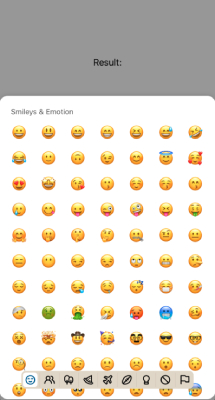
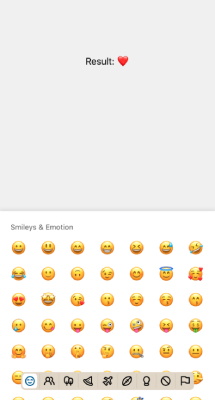
Feature/static keyboard (#2)
* fix: use container styles fix

* refactor: rename static modal

* refactor: let use EmojiStaticKeyboard outside modal

* chore: add static keyboard to readme

* fix: improve readme

* refactor: easier use of static keyboard and refactor contexts

* refactor: update readme example

diff --git a/src/EmojiKeyboard.tsx b/src/EmojiKeyboard.tsx
@@ -1,90 +1,19 @@
 import * as React from 'react';
+import { EmojiStaticKeyboard } from './components/EmojiStaticKeyboard';
+import { KeyboardProvider } from './contexts/KeyboardProvider';
+import type {
+  KeyboardProps,
+  OnEmojiSelected,
+} from './contexts/KeyboardContext';
 
-import {
-  StyleSheet,
-  View,
-  FlatList,
-  useWindowDimensions,
-  Animated,
-} from 'react-native';
-import type { CategoryTypes, EmojisByCategory } from './types';
-import { EmojiCategory } from './components/EmojiCategory';
-import { KeyboardContext } from './KeyboardContext';
-import { Categories } from './components/Categories';
-import emojisByGroup from './assets/emojis.json';
+type EmojiKeyboardProps = {
+  onEmojiSelected: OnEmojiSelected;
+} & Partial<KeyboardProps>;
 
-export const EmojiKeyboard = () => {
-  const { width } = useWindowDimensions();
-  const {
-    activeCategoryIndex,
-    containerStyles,
-    onCategoryChangeFailed,
-    disabledCategory,
-  } = React.useContext(KeyboardContext);
-
-  const flatListRef = React.useRef<FlatList>(null);
-
-  const scrollNav = React.useRef(new Animated.Value(0)).current;
-
-  const getItemLayout = (
-    _: CategoryTypes[] | null | undefined,
-    index: number
-  ) => ({
-    length: width,
-    offset: width * index,
-    index,
-  });
-
-  const renderItem = React.useCallback(
-    (props) => <EmojiCategory {...props} />,
-    []
-  );
-  React.useEffect(() => {
-    Animated.spring(scrollNav, {
-      toValue: activeCategoryIndex * (28 + 9),
-      useNativeDriver: true,
-    }).start();
-  }, [activeCategoryIndex, scrollNav]);
-
+export const EmojiKeyboard = (props: EmojiKeyboardProps) => {
   return (
-    <View style={[styles.container, styles.containerShadow, containerStyles]}>
-      <Animated.FlatList
-        data={emojisByGroup.filter((category) => {
-          const title = category.title as CategoryTypes;
-          return !disabledCategory.includes(title);
-        })}
-        keyExtractor={(item: EmojisByCategory) => item.title}
-        renderItem={renderItem}
-        removeClippedSubviews={true}
-        ref={flatListRef}
-        onScrollToIndexFailed={onCategoryChangeFailed}
-        horizontal
-        showsHorizontalScrollIndicator={false}
-        pagingEnabled
-        scrollEventThrottle={16}
-        getItemLayout={getItemLayout}
-        scrollEnabled={false}
-        initialNumToRender={1}
-        windowSize={2}
-        maxToRenderPerBatch={1}
-      />
-      <Categories flatListRef={flatListRef} scrollNav={scrollNav} />
-    </View>
+    <KeyboardProvider {...props}>
+      <EmojiStaticKeyboard />
+    </KeyboardProvider>
   );
 };
-
-const styles = StyleSheet.create({
-  container: {
-    flex: 1,
-    paddingTop: 16,
-    borderRadius: 16,
-    backgroundColor: '#fff',
-  },
-  containerShadow: {
-    shadowColor: 'black',
-    shadowOpacity: 0.15,
-    shadowOffset: { width: 0, height: 0 },
-    shadowRadius: 5,
-    elevation: 10,
-  },
-});

diff --git a/src/components/EmojiStaticKeyboard.tsx b/src/components/EmojiStaticKeyboard.tsx
@@ -1,0 +1,90 @@
+import * as React from 'react';
+
+import {
+  StyleSheet,
+  View,
+  FlatList,
+  useWindowDimensions,
+  Animated,
+} from 'react-native';
+import type { CategoryTypes, EmojisByCategory } from '../types';
+import { EmojiCategory } from './EmojiCategory';
+import { KeyboardContext } from '../contexts/KeyboardContext';
+import { Categories } from './Categories';
+import emojisByGroup from '../assets/emojis.json';
+
+export const EmojiStaticKeyboard = () => {
+  const { width } = useWindowDimensions();
+  const {
+    activeCategoryIndex,
+    containerStyles,
+    onCategoryChangeFailed,
+    disabledCategory,
+  } = React.useContext(KeyboardContext);
+
+  const flatListRef = React.useRef<FlatList>(null);
+
+  const scrollNav = React.useRef(new Animated.Value(0)).current;
+
+  const getItemLayout = (
+    _: CategoryTypes[] | null | undefined,
+    index: number
+  ) => ({
+    length: width,
+    offset: width * index,
+    index,
+  });
+
+  const renderItem = React.useCallback(
+    (props) => <EmojiCategory {...props} />,
+    []
+  );
+  React.useEffect(() => {
+    Animated.spring(scrollNav, {
+      toValue: activeCategoryIndex * (28 + 9),
+      useNativeDriver: true,
+    }).start();
+  }, [activeCategoryIndex, scrollNav]);
+
+  return (
+    <View style={[styles.container, styles.containerShadow, containerStyles]}>
+      <Animated.FlatList
+        data={emojisByGroup.filter((category) => {
+          const title = category.title as CategoryTypes;
+          return !disabledCategory.includes(title);
+        })}
+        keyExtractor={(item: EmojisByCategory) => item.title}
+        renderItem={renderItem}
+        removeClippedSubviews={true}
+        ref={flatListRef}
+        onScrollToIndexFailed={onCategoryChangeFailed}
+        horizontal
+        showsHorizontalScrollIndicator={false}
+        pagingEnabled
+        scrollEventThrottle={16}
+        getItemLayout={getItemLayout}
+        scrollEnabled={false}
+        initialNumToRender={1}
+        windowSize={2}
+        maxToRenderPerBatch={1}
+      />
+      <Categories flatListRef={flatListRef} scrollNav={scrollNav} />
+    </View>
+  );
+};
+
+const styles = StyleSheet.create({
+  container: {
+    flex: 1,
+    paddingTop: 16,
+    borderRadius: 16,
+    backgroundColor: '#fff',
+  },
+  containerShadow: {
+    shadowColor: 'black',
+    shadowOpacity: 0.15,
+    shadowOffset: { width: 0, height: 0 },
+    shadowRadius: 5,
+    elevation: 10,
+  },
+});

diff --git a/example/src/Static/Static.tsx b/example/src/Static/Static.tsx
@@ -1,32 +1,26 @@
 import * as React from 'react';
-import { StyleSheet, Text, TouchableOpacity } from 'react-native';
+import { StyleSheet, Text, View } from 'react-native';
 import { SafeAreaView } from 'react-native-safe-area-context';
-import EmojiPicker from 'rn-emoji-keyboard';
+import { EmojiKeyboard } from 'rn-emoji-keyboard';
 import type { EmojiType } from 'src/types';
 
 const Static = () => {
   const [result, setResult] = React.useState<string>();
-  const [isModalOpen, setIsModalOpen] = React.useState<boolean>(false);
 
   const handlePick = (emoji: EmojiType) => {
-    console.log(emoji);
     setResult(emoji.emoji);
-    setIsModalOpen((prev) => !prev);
   };
   return (
-    <SafeAreaView>
-      <Text style={styles.text}>Result: {result}</Text>
-      <TouchableOpacity onPress={() => setIsModalOpen(true)}>
-        <Text style={styles.text}>Open</Text>
-      </TouchableOpacity>
-
-      <EmojiPicker
-        onEmojiSelected={handlePick}
-        open={isModalOpen}
-        onClose={() => setIsModalOpen(false)}
-        expandable={false}
-        defaultHeight="65%"
-      />
+    <SafeAreaView style={styles.container}>
+      <View style={styles.container}>
+        <Text style={styles.text}>Result: {result}</Text>
+      </View>
+      <View style={styles.container}>
+        <EmojiKeyboard
+          onEmojiSelected={handlePick}
+          containerStyles={styles.keyboardContainer}
+        />
+      </View>
     </SafeAreaView>
   );
 };
@@ -39,6 +33,9 @@ const styles = StyleSheet.create({
     textAlign: 'center',
     margin: 64,
     fontSize: 18,
+  },
+  keyboardContainer: {
+    borderRadius: 0,
   },
 });
 

diff --git a/src/EmojiPicker.tsx b/src/EmojiPicker.tsx
@@ -1,9 +1,12 @@
 import * as React from 'react';
 import { Animated, useWindowDimensions } from 'react-native';
-import { EmojiKeyboard } from './EmojiKeyboard';
+import { EmojiStaticKeyboard } from './components/EmojiStaticKeyboard';
 import { Knob } from './components/Knob';
-import { defaultKeyboardContext, KeyboardProvider } from './KeyboardProvider';
-import type { KeyboardProps } from './KeyboardContext';
+import {
+  defaultKeyboardContext,
+  KeyboardProvider,
+} from './contexts/KeyboardProvider';
+import type { KeyboardProps } from './contexts/KeyboardContext';
 import type { EmojiType } from './types';
 import { ModalWithBackdrop } from './components/ModalWithBackdrop';
 import { getHeight } from './utils';
@@ -61,7 +64,7 @@ export const EmojiPicker = ({
               },
             ]}
           >
-            <EmojiKeyboard />
+            <EmojiStaticKeyboard />
           </Animated.View>
         </>
       </ModalWithBackdrop>

diff --git a/example/src/StaticModal/StaticModal.tsx b/example/src/StaticModal/StaticModal.tsx
@@ -4,7 +4,7 @@ import { SafeAreaView } from 'react-native-safe-area-context';
 import EmojiPicker from 'rn-emoji-keyboard';
 import type { EmojiType } from 'src/types';
 
-const Basic = () => {
+const StaticModal = () => {
   const [result, setResult] = React.useState<string>();
   const [isModalOpen, setIsModalOpen] = React.useState<boolean>(false);
 
@@ -24,6 +24,8 @@ const Basic = () => {
         onEmojiSelected={handlePick}
         open={isModalOpen}
         onClose={() => setIsModalOpen(false)}
+        expandable={false}
+        defaultHeight="65%"
       />
     </SafeAreaView>
   );
@@ -40,4 +42,4 @@ const styles = StyleSheet.create({
   },
 });
 
-export default Basic;
+export default StaticModal;

diff --git a/example/src/App.tsx b/example/src/App.tsx
@@ -7,6 +7,7 @@ import Basic from './Basic/Basic';
 import Dark from './Dark/Dark';
 import Translated from './Translated/Translated';
 import DisabledCategories from './DisabledCategories/DisabledCategories';
+import StaticModal from './StaticModal/StaticModal';
 import Static from './Static/Static';
 
 const Stack = createStackNavigator();
@@ -22,6 +23,7 @@ export default () => {
           name="DisabledCategories"
           component={DisabledCategories}
         />
+        <Stack.Screen name="StaticModal" component={StaticModal} />
         <Stack.Screen name="Static" component={Static} />
       </Stack.Navigator>
     </NavigationContainer>

diff --git a/example/src/Examples/Examples.tsx b/example/src/Examples/Examples.tsx
@@ -9,6 +9,7 @@ type RootStackParamList = {
   Dark: undefined;
   Translated: undefined;
   DisabledCategories: undefined;
+  StaticModal: undefined;
   Static: undefined;
 };
 
@@ -27,6 +28,10 @@ const Examples = ({ navigation }: Props) => {
         <Button
           title="DisabledCategories"
           onPress={() => navigation.navigate('DisabledCategories')}
+        />
+        <Button
+          title="StaticModal"
+          onPress={() => navigation.navigate('StaticModal')}
         />
         <Button title="Static" onPress={() => navigation.navigate('Static')} />
       </View>

diff --git a/src/contexts/KeyboardContext.tsx b/src/contexts/KeyboardContext.tsx
@@ -4,12 +4,14 @@ import {
   defaultKeyboardContext,
   defaultKeyboardValues,
 } from './KeyboardProvider';
-import type { CategoryTranslation, EmojiType, CategoryTypes } from './types';
+import type { CategoryTranslation, EmojiType, CategoryTypes } from '../types';
+
+export type OnEmojiSelected = (emoji: EmojiType) => void;
 
 export type KeyboardProps = {
   open: boolean;
   onClose: () => void;
-  onEmojiSelected: (emoji: EmojiType) => void;
+  onEmojiSelected: OnEmojiSelected;
   emojiSize?: number;
   containerStyles?: ViewStyle;
   knobStyles?: ViewStyle;

diff --git a/src/contexts/KeyboardProvider.tsx b/src/contexts/KeyboardProvider.tsx
@@ -4,12 +4,14 @@ import {
   KeyboardProps,
   ContextValues,
   KeyboardContext,
+  OnEmojiSelected,
 } from './KeyboardContext';
-import en from './translation/en';
-import type { EmojiType } from './types';
+import en from '../translation/en';
+import type { EmojiType } from '../types';
 
-type ProviderProps = KeyboardProps & {
+type ProviderProps = Partial<KeyboardProps> & {
   children: React.ReactNode;
+  onEmojiSelected: OnEmojiSelected;
 };
 
 export const defaultKeyboardContext: Required<KeyboardProps> = {

diff --git a/src/index.tsx b/src/index.tsx
@@ -1,10 +1,9 @@
-import { EmojiKeyboard } from './EmojiKeyboard';
 import { EmojiPicker } from './EmojiPicker';
-import { KeyboardProvider } from './KeyboardProvider';
+import { EmojiKeyboard } from './EmojiKeyboard';
 import en from './translation/en';
 import pl from './translation/pl';
 
-export { EmojiKeyboard, KeyboardProvider };
+export { EmojiKeyboard };
 export { en, pl };
 
 export default EmojiPicker;

diff --git a/src/components/EmojiCategory.tsx b/src/components/EmojiCategory.tsx
@@ -3,7 +3,7 @@ import * as React from 'react';
 import { StyleSheet, View, Text, FlatList } from 'react-native';
 import type { EmojisByCategory, EmojiType, JsonEmoji } from '../types';
 import { SingleEmoji } from './SingleEmoji';
-import { KeyboardContext } from '../KeyboardContext';
+import { KeyboardContext } from '../contexts/KeyboardContext';
 
 const emptyEmoji = {
   emoji: '',

diff --git a/src/components/CategoryItem.tsx b/src/components/CategoryItem.tsx
@@ -1,6 +1,6 @@
 import * as React from 'react';
 import { View, StyleSheet, TouchableOpacity } from 'react-native';
-import { KeyboardContext } from '../KeyboardContext';
+import { KeyboardContext } from '../contexts/KeyboardContext';
 import type { CategoryNavigationItem, CategoryTypes } from '../types';
 import { Icon } from './Icon';
 
